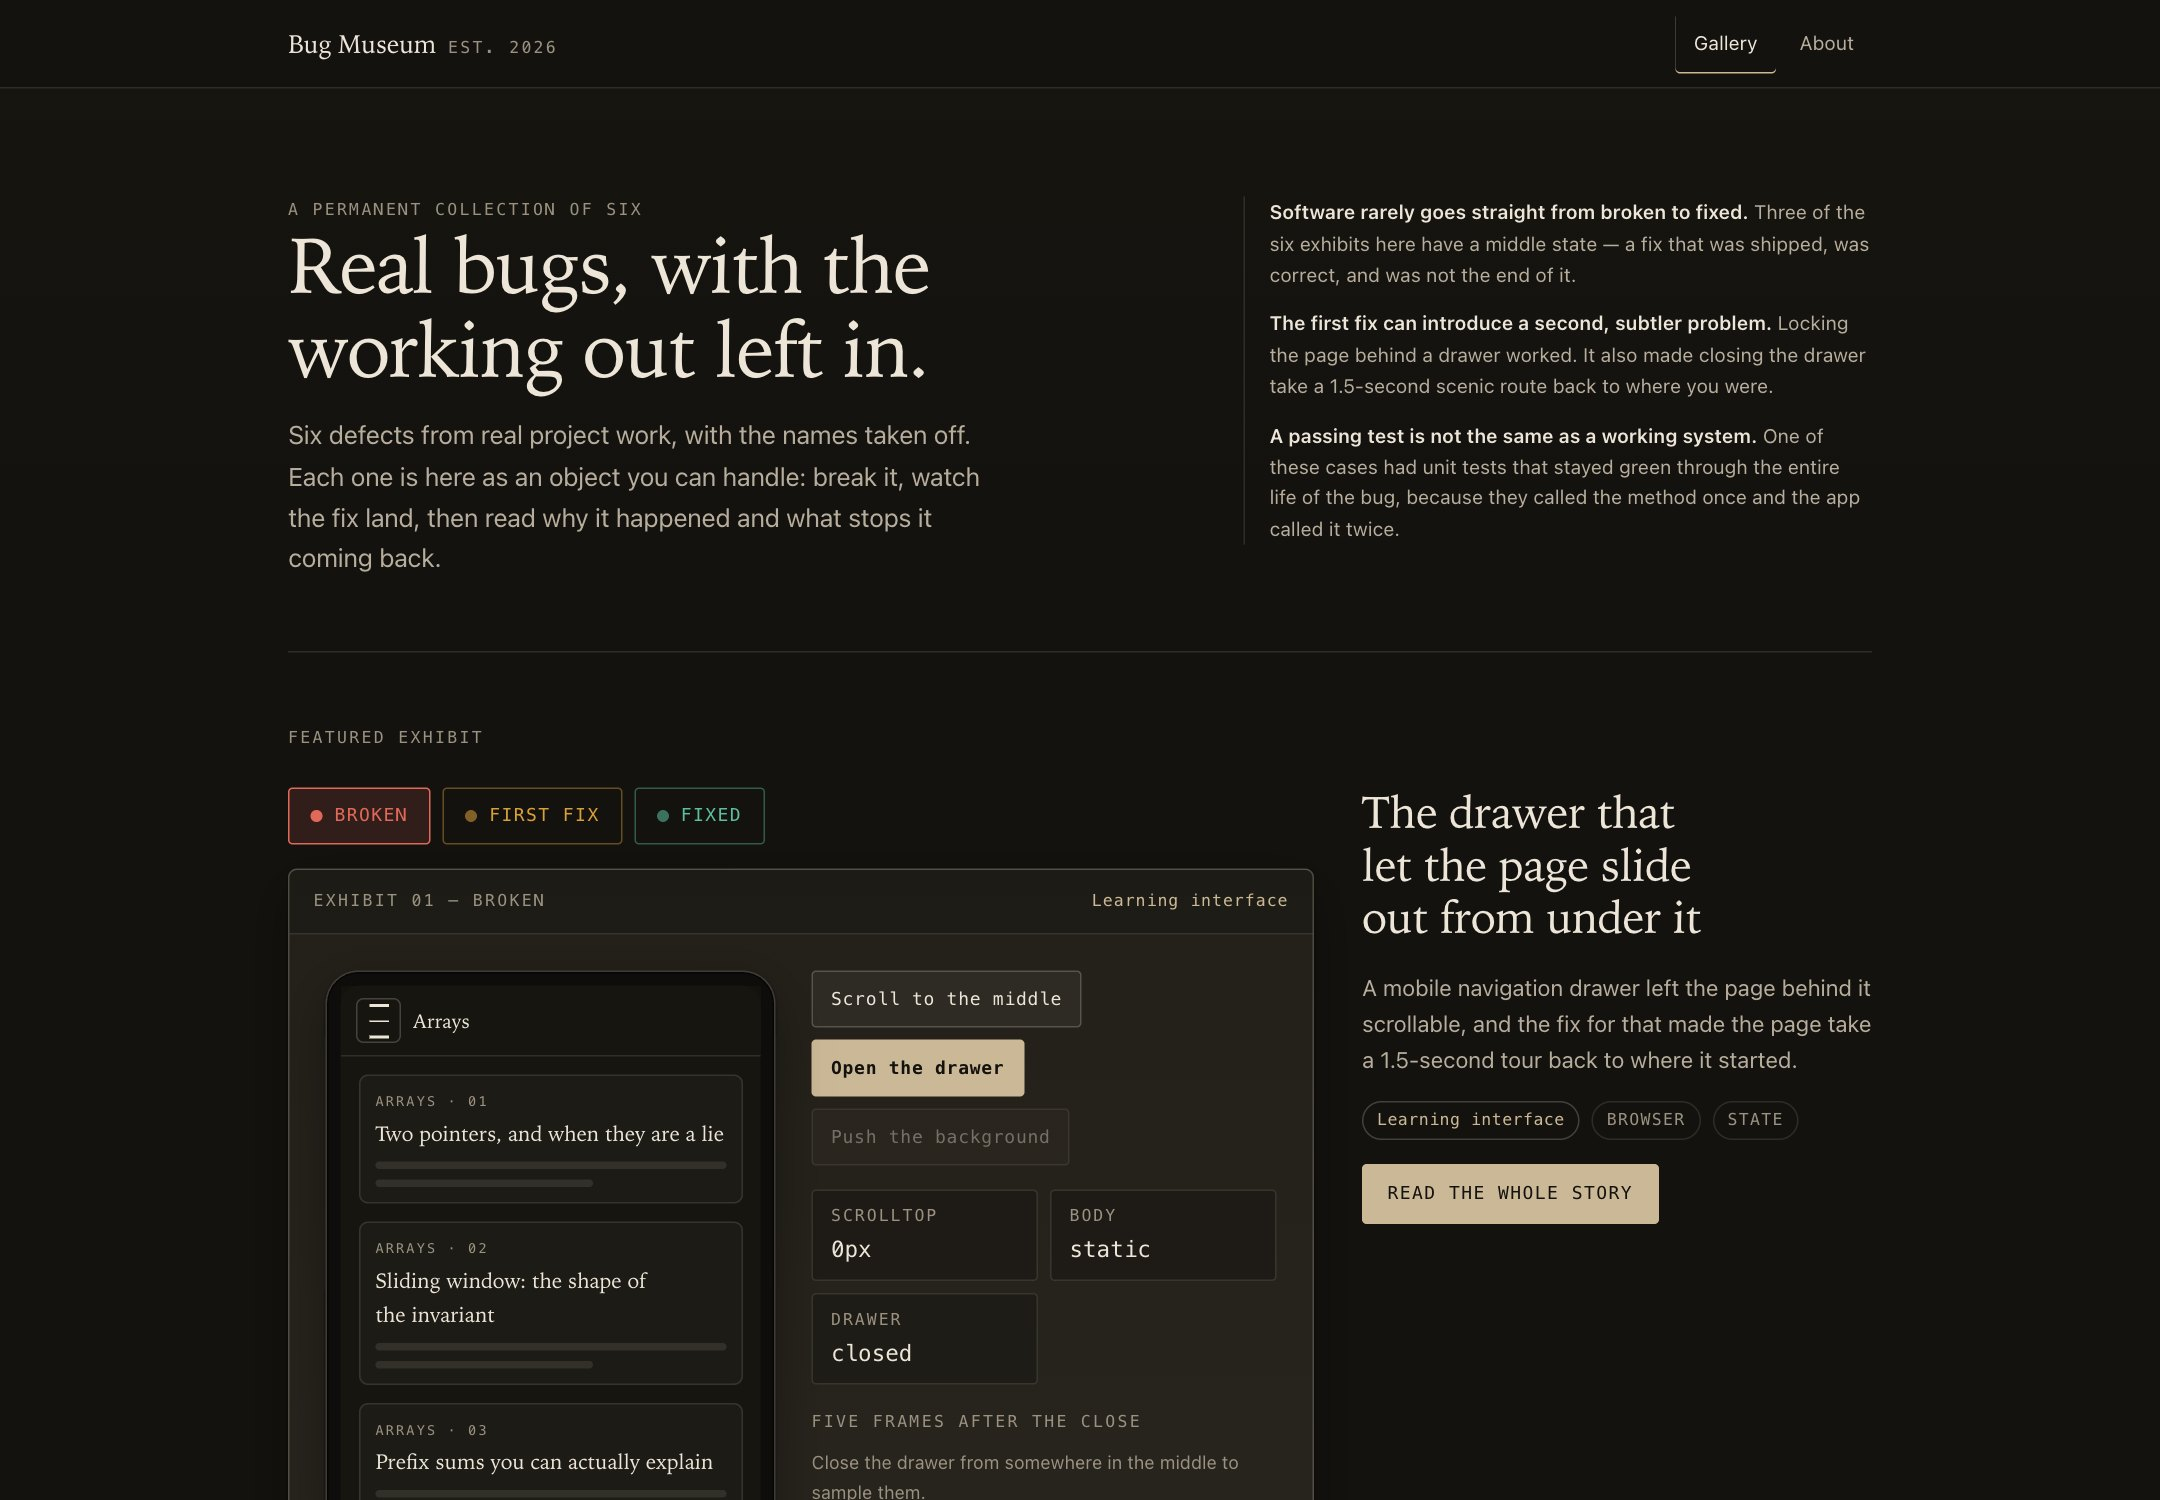
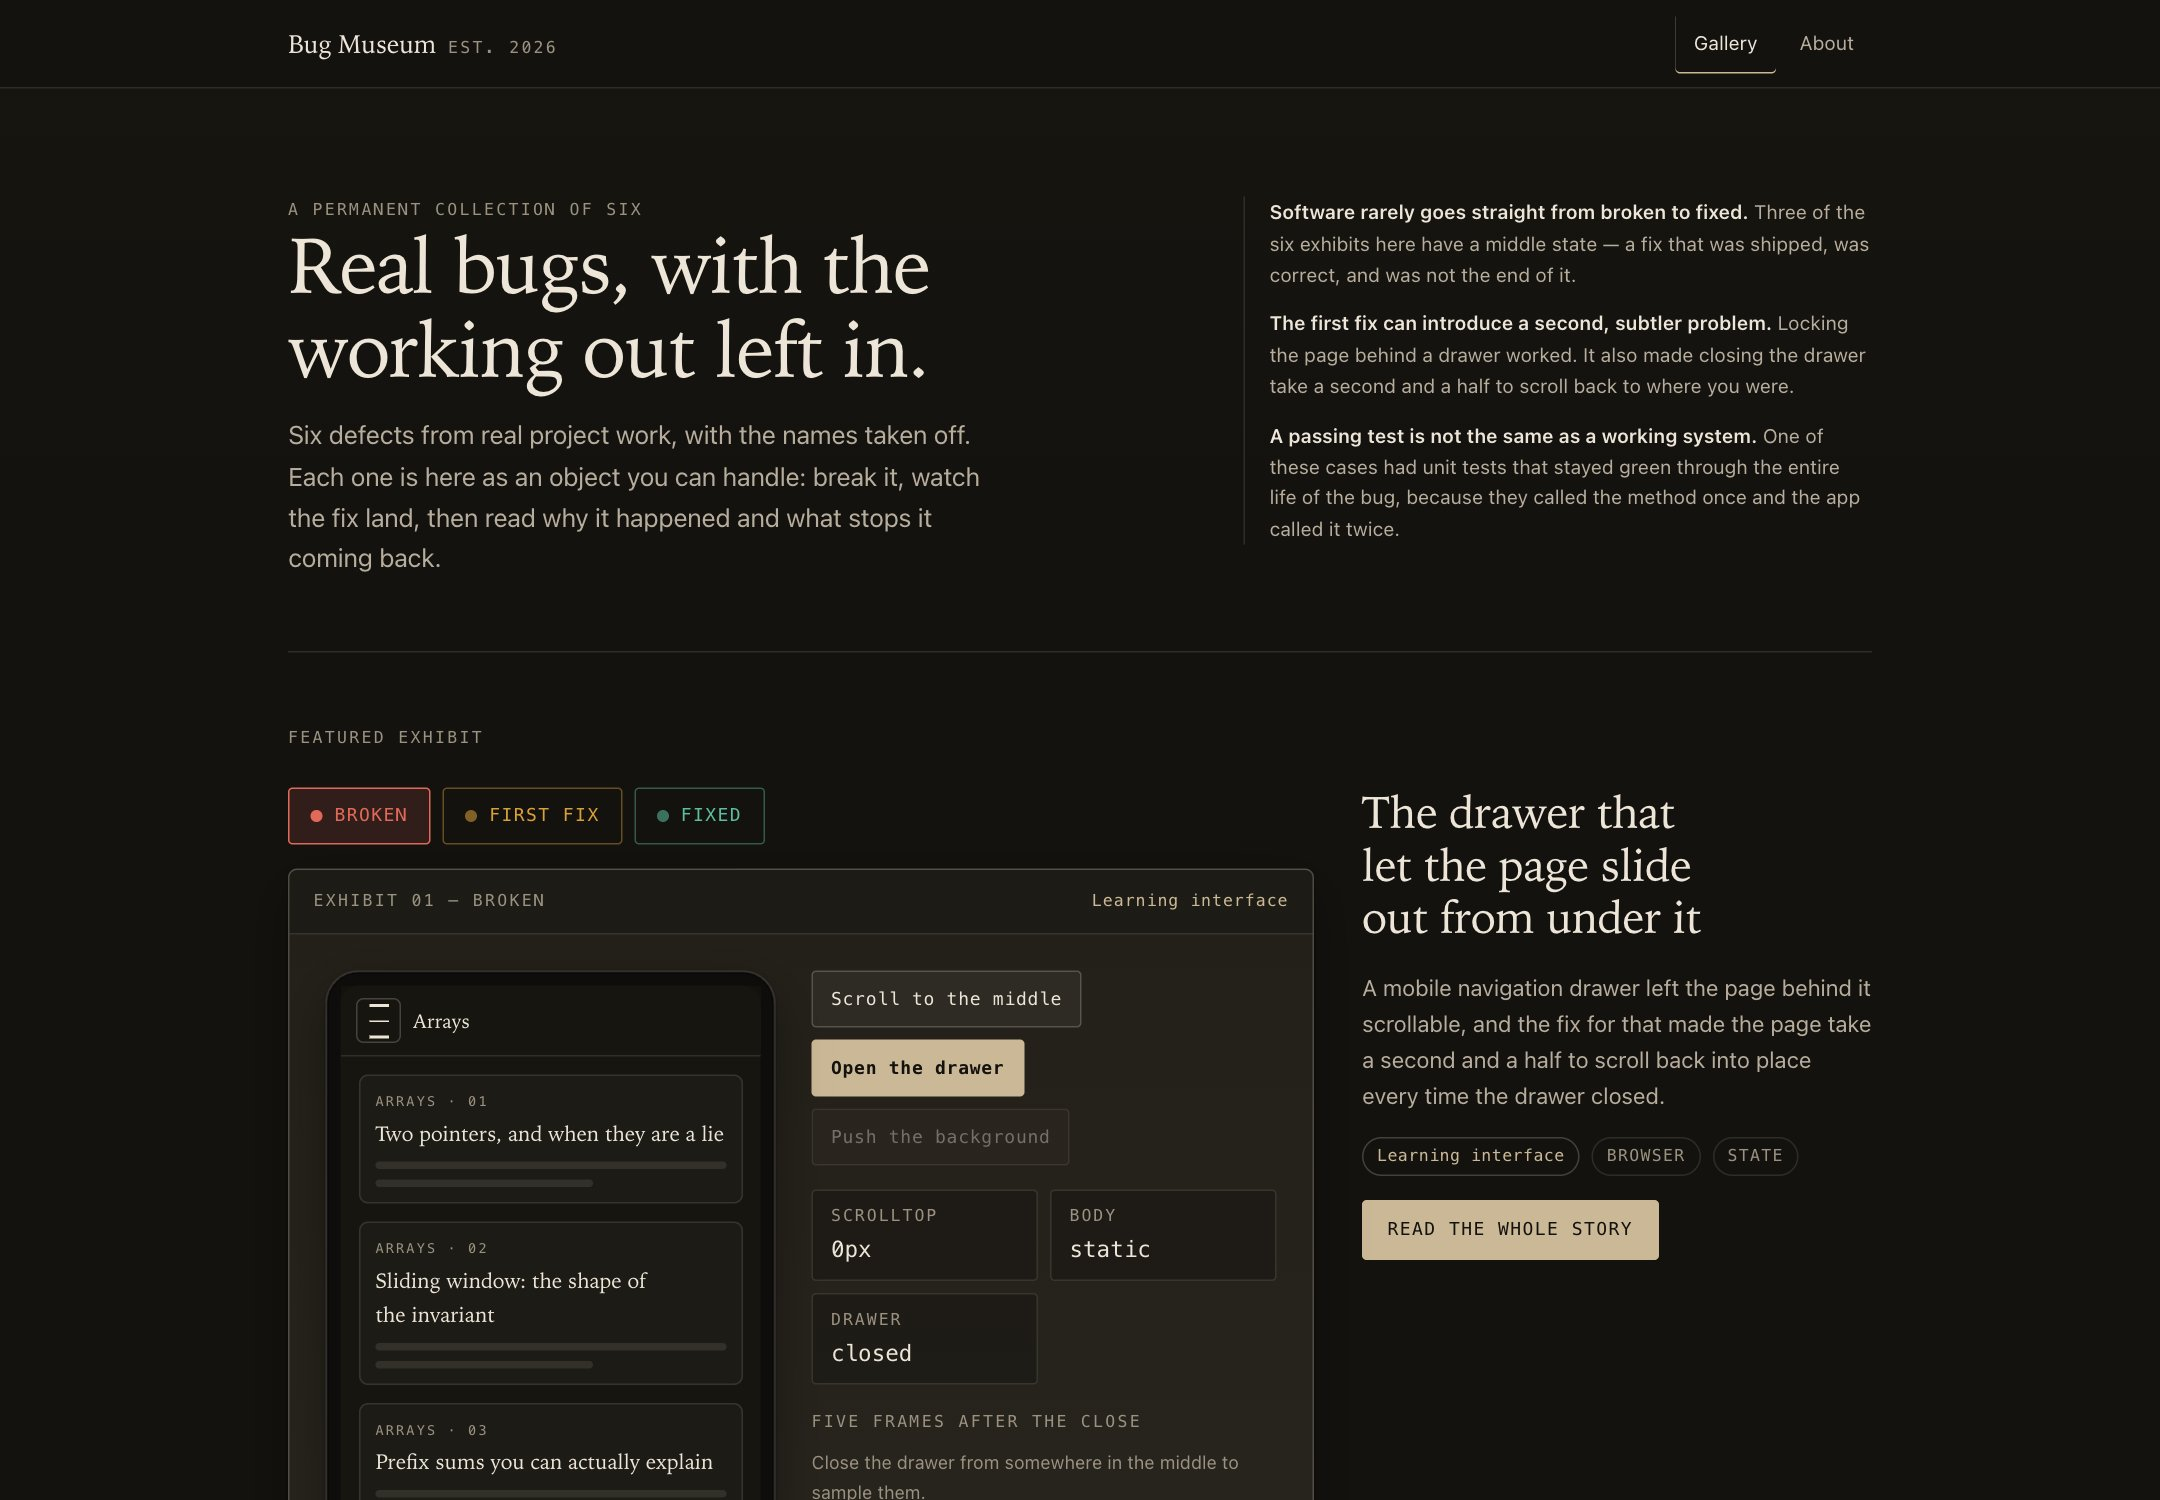
Bring the README up to date with the fixes, and retake its screenshots (#25)
- Accessibility: four of the six simulations write an event log, not all
  six. The log is now a role="log" region; the two-tabs frame and the day
  case's verdicts are polite live regions instead.
- Contrast: the test also composites the translucent tints and faded
  labels over the surfaces they sit on.
- What the tests assert: the stepped restore under reduced motion is
  sampled frame by frame; the new payload, share-tag and content-guard
  checks are listed; the console check listens for four seconds and names
  the one expected warning.
- Screenshots: both retaken from production the way the originals were
  taken (1440x1000 viewport at 1.5x, 2160x1500 JPEG, quality 85, dark),
  so they show the current wall text and readouts.

Changed region(s): [[0.6204, 0.7053, 0.8375, 0.8587], [0.6204, 0.2453, 0.8375, 0.276]]

diff --git a/README.md b/README.md
@@ -259,10 +259,21 @@ What the tests actually assert, rather than screenshot:
 - **Direct URLs**: every exhibit route, `#broken` / `#first-fix` / `#fixed`
   fragments, a bad fragment falling back, and a 404 for an unknown slug.
 - **Overflow**: no element extends past the viewport on any page at 360px.
-- **Reduced motion**: transitions are disabled and the restore still reads as a
-  journey rather than a glide.
+- **Reduced motion**: transitions are disabled, and the drawer's First fix
+  restore takes a few visible steps instead of gliding — sampled frame by frame.
 - **No JavaScript**: the gallery and every exhibit page still read as documents.
-- **No console errors or hydration warnings** on any route.
+- **Payload**: the gallery, an exhibit page and the home payload every page
+  prefetches carry no wall text; client components get only the fields they
+  render.
+- **Share tags**: every exhibit and `/about` share under their own title and
+  address, with the site picture; the 404 page has its own title and a single
+  `noindex`.
+- **Content guards**: an excerpt marked *from this repository* must appear, line
+  by line, in the file it links to; rendered prose has no leftover markup and one
+  quotation style.
+- **No console errors or hydration warnings** on any route — listened for four
+  seconds after load, so late messages are caught. The one expected message is
+  Chrome noting that a prefetched route's stylesheet has not been used yet.
 
 `node scripts/screenshots.mjs` writes full-page captures at 1440, 390 and 360px
 to `screenshots/` for visual review. Those are for looking at, not asserting on.
@@ -290,14 +301,20 @@ change: 200 is right, 302 means the origin is not a production domain.
   between options.
 - The drawer simulation traps nothing it should not, returns focus to the
   control that opened it, and closes on Escape from anywhere.
-- Every simulation writes an event log, so anyone who cannot perceive the
-  motion can read what happened instead.
+- Four of the six simulations — the drawer, the breaker, the recogniser and the
+  double submit — write an event log, so anyone who cannot perceive the motion
+  can read what happened instead. The log is a `role="log"` region, so a screen
+  reader announces each new line. The other two say what each step did in text
+  beside the case: the two-tabs frame and the day case's verdicts are polite
+  live regions.
 - `prefers-reduced-motion` switches decorative transitions off. The one place
   motion is the content — the drawer's slow restore — becomes a stepped
   restore rather than disappearing.
 - Body text is warm off-white on warm off-black. Every ink/surface pair in
   `styles/tokens.css` is measured against WCAG AA by `tests/unit/contrast.test.ts`
-  — that check is what caught `--ink-3` at 4.40:1 against the display case.
+  — that check is what caught `--ink-3` at 4.40:1 against the display case. The
+  same test composites the translucent tints and faded labels used in the
+  gallery and the cases over the surfaces they sit on, and measures the result.
 - No colour is the only carrier of meaning; the three state colours are always
   paired with a label.
 - Nothing is hidden behind hover.
